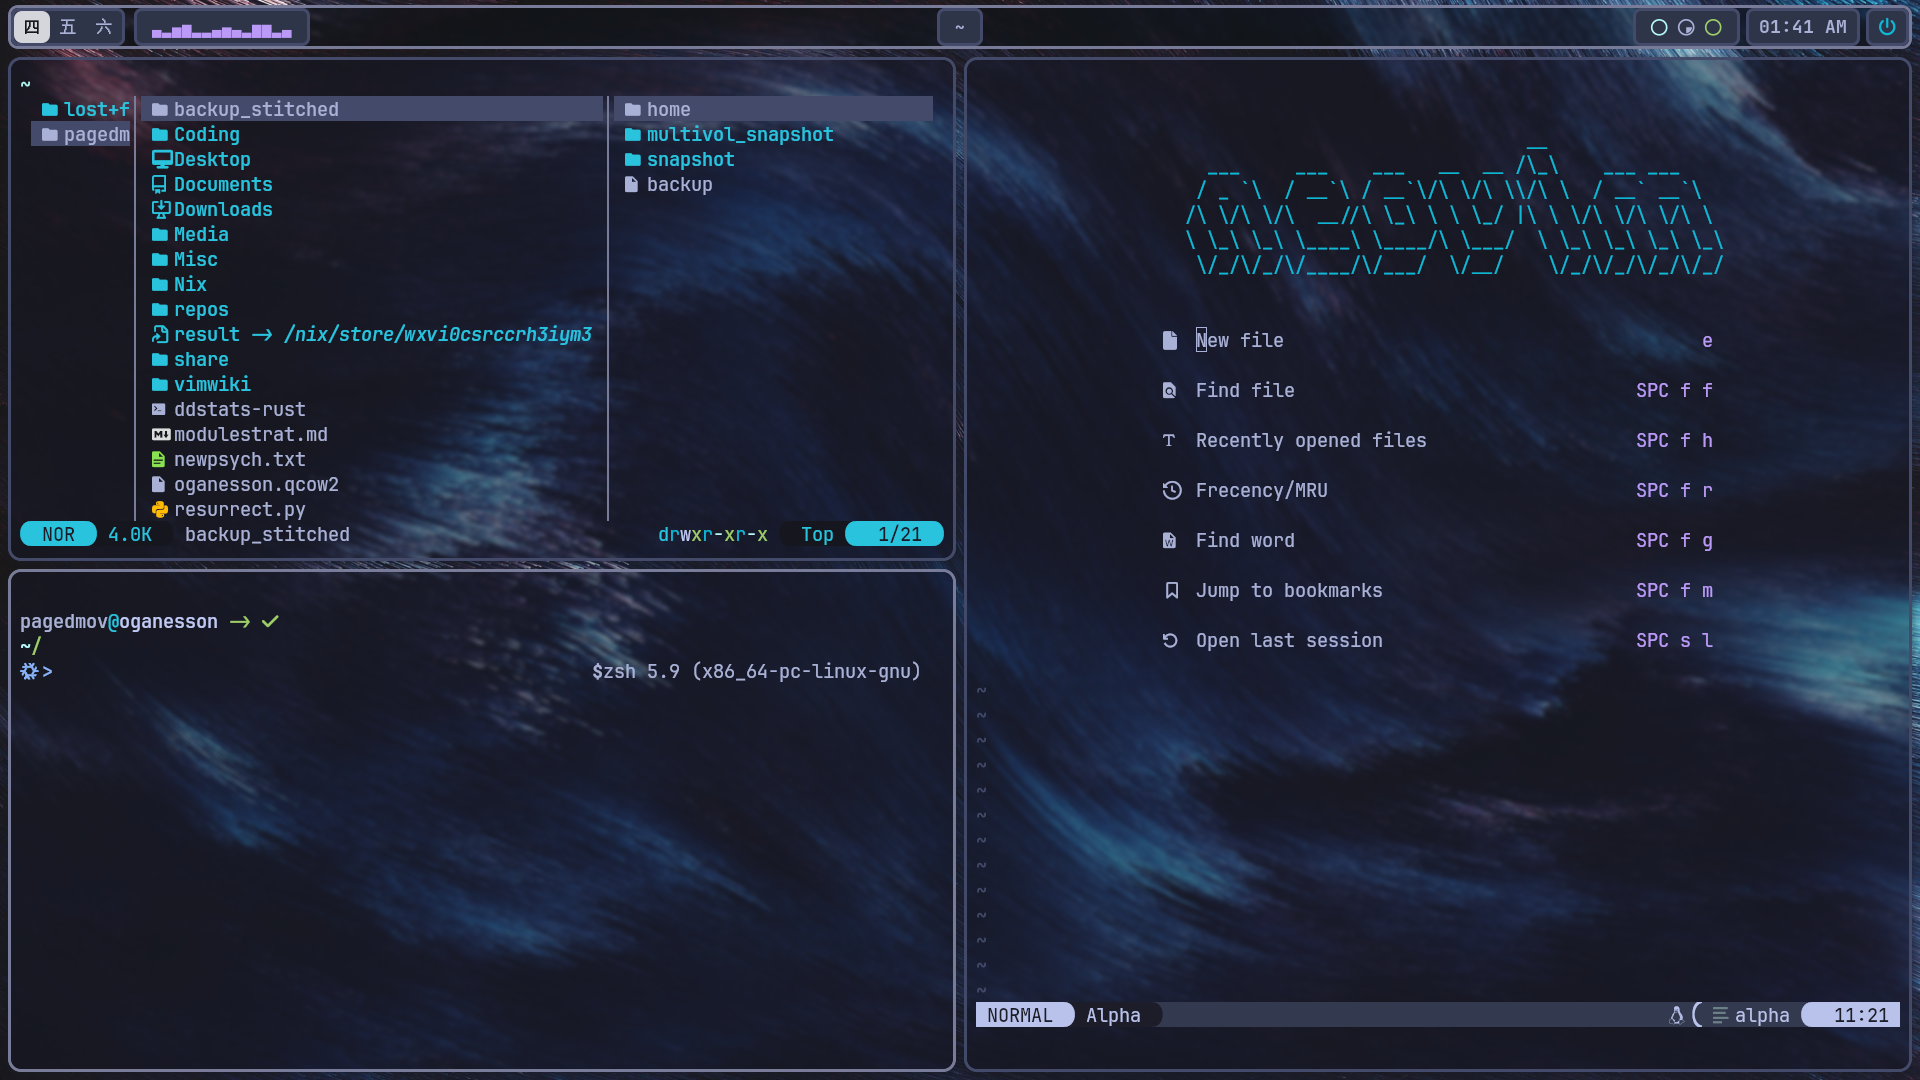
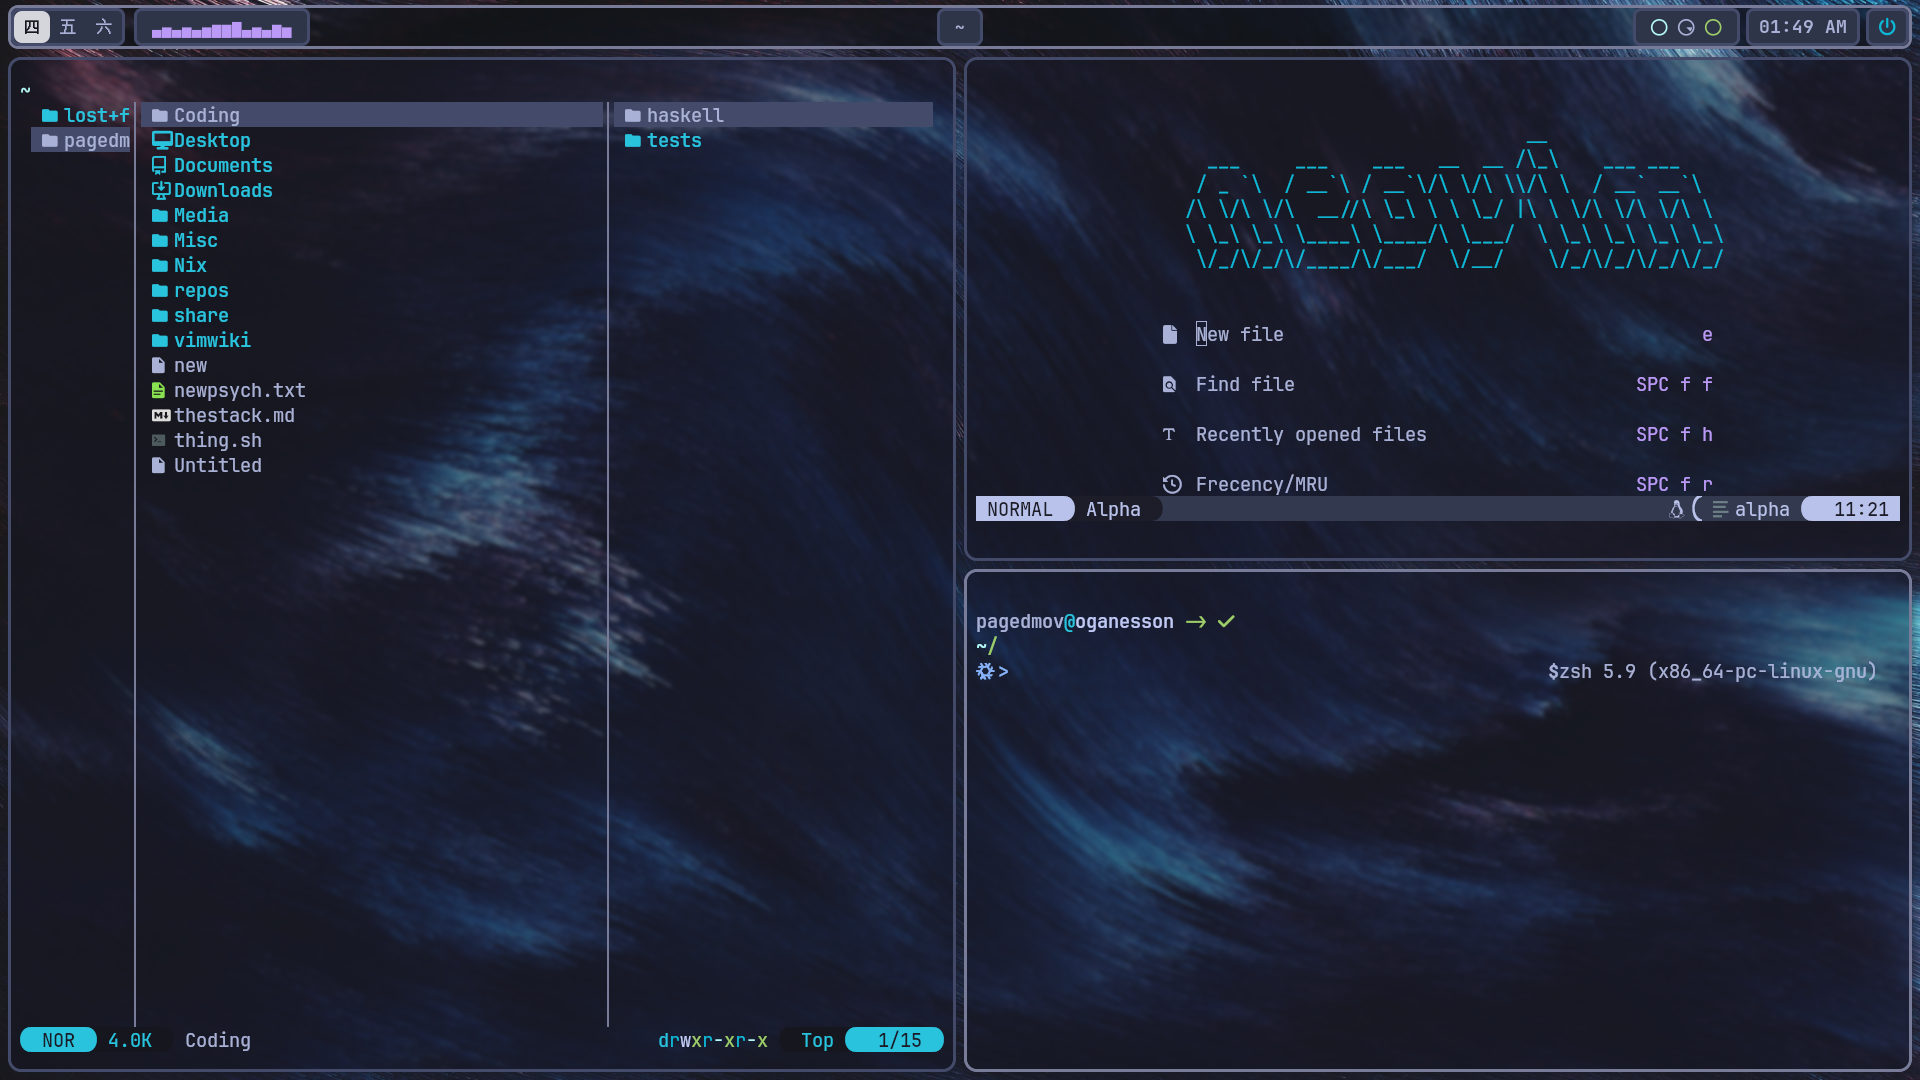
added an alias that counts how many nix files are in my config. also updated screenshots

diff --git a/README.md b/README.md
@@ -9,7 +9,7 @@ config here](https://github.com/Frost-Phoenix/nixos-config/tree/catppuccin)
 
 ![desktop-neofetch](./assets/screens/desktop-neofetch.png)
 ![busy-desktop](./assets/screens/desktop-busy.png)
-Screenshots up to date as of [this commit](https://github.com/pagedMov/nixos-config/commit/50decf03c9d1a7792d5ea0056eb51f6a400654f0)
+Screenshots up to date as of [this commit](https://github.com/pagedMov/nixos-config/commit/46f7fa27c85c9fb446391f9bb0580afc3f06ea28)
 
 ## Programs
 
